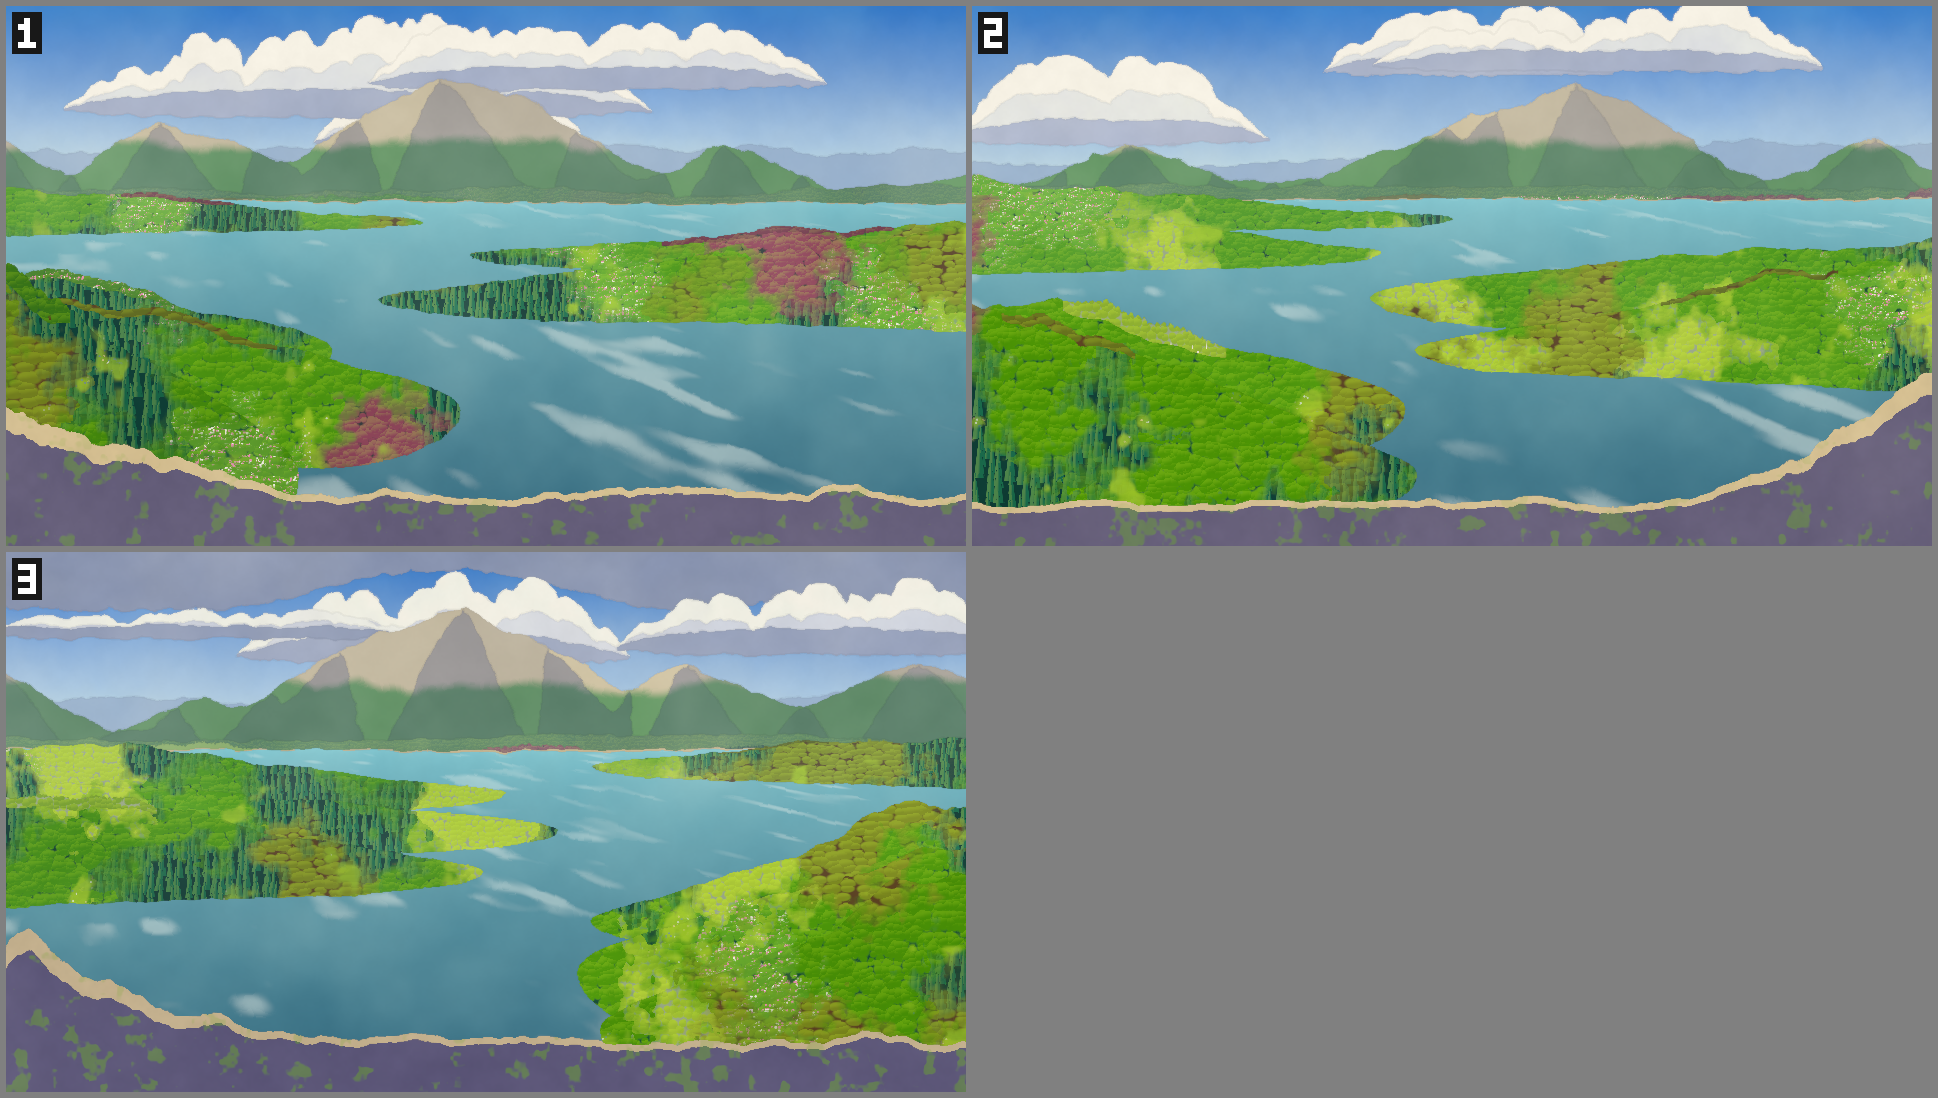
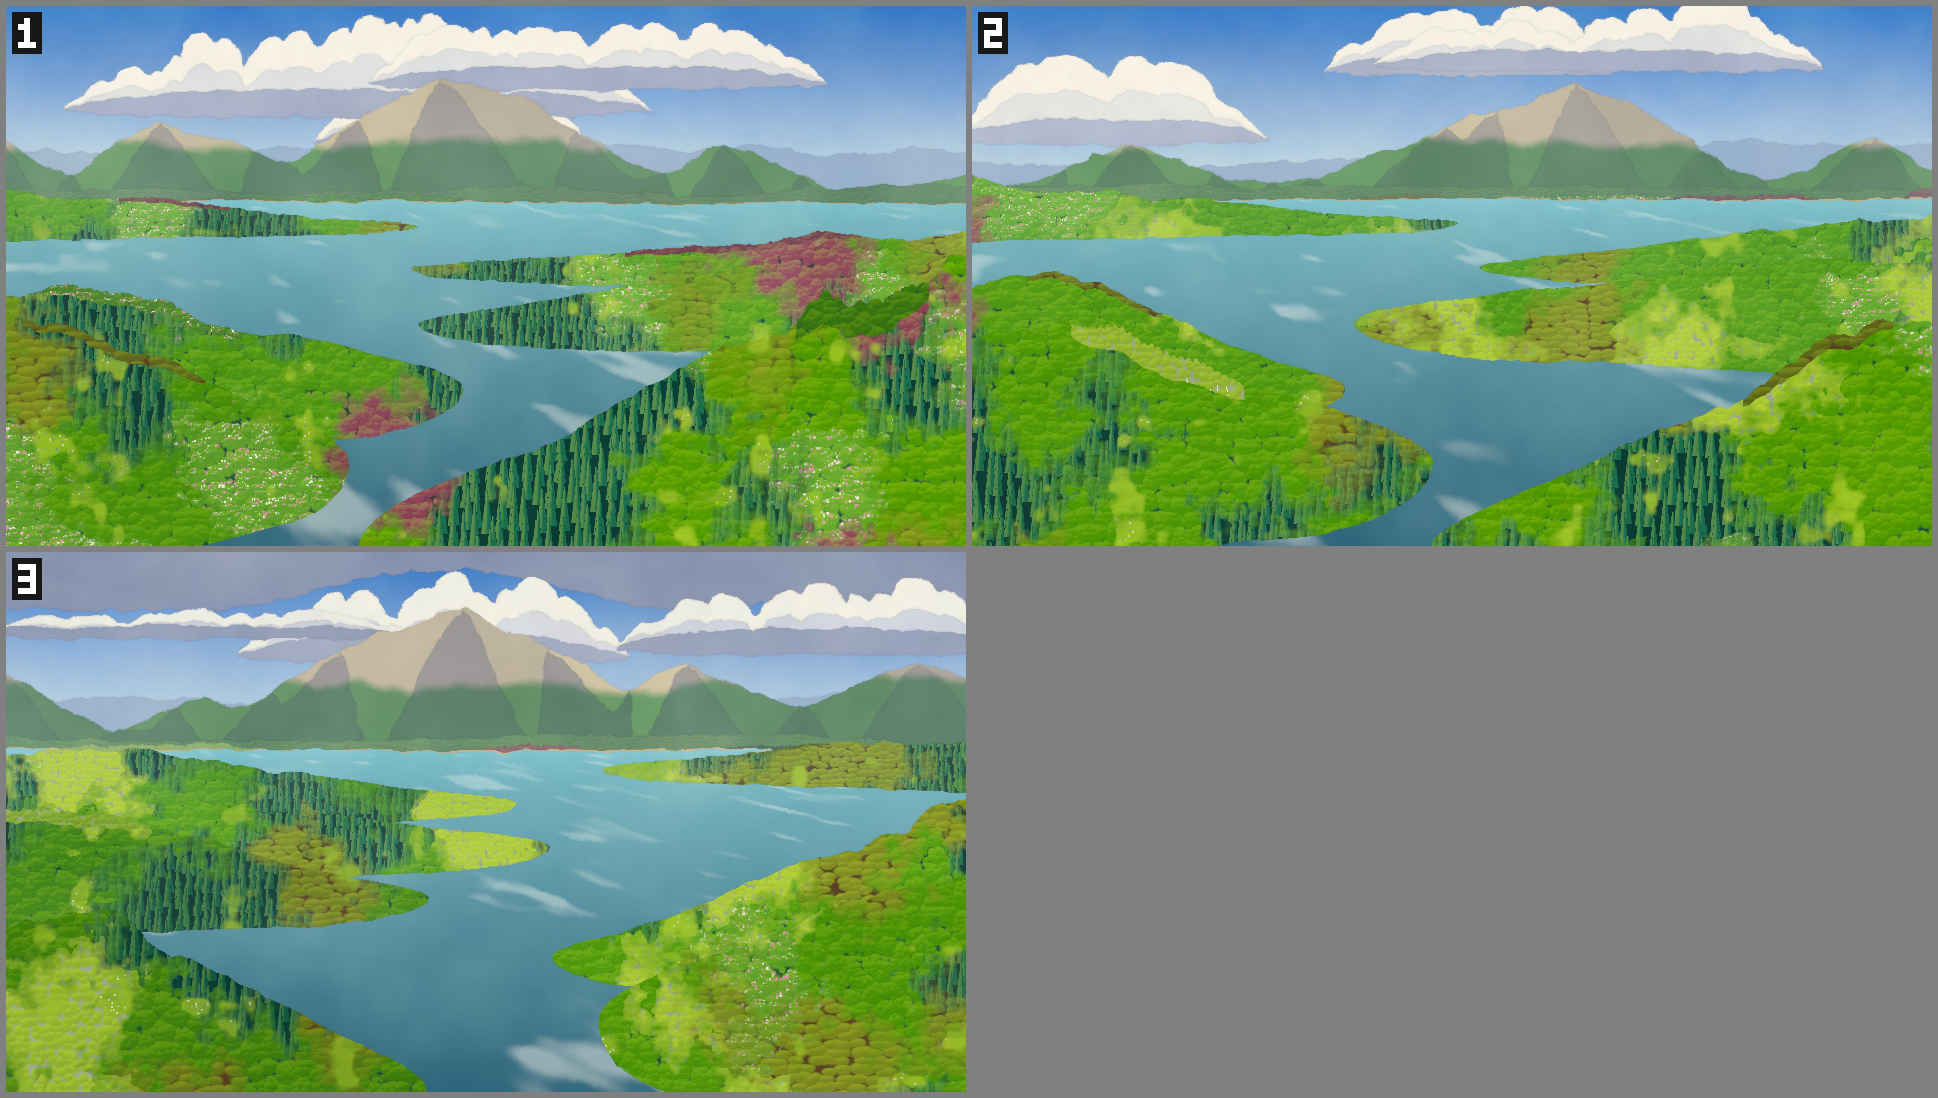
Remove the high-vantage cliff edge; end the view on the nearest spur
At the user's request (the violet ledge with moss and a beige rim read
as flat cut-outs, not a cliff). High-vantage views now end on the
valley's nearest forested spur, which sits on the frame's bottom edge
(nearness k/n instead of k/(n+1)), with the river running out of frame.
ShoreKind::Ledge becomes ShoreKind::Valley; the ledge builder, depth and
composition fields are gone. The former ledge seed is still drawn from
the terrain stream so later rock draws, and every other template, are
unchanged (checked: only high-vantage checksums differ from round 3).
Round 4 sheets regenerated before rating, with a note in its README.

Changed region(s): [[0.0, 0.1548, 1.0, 0.4954], [0.0, 0.6503, 0.4954, 1.0], [0.031, 0.1548, 0.2167, 0.2168]]

diff --git a/crates/pigment-core/src/scene/lakeshore.rs b/crates/pigment-core/src/scene/lakeshore.rs
@@ -65,8 +65,6 @@ pub mod depth {
     /// Valley spurs (`HighVantage`) run from this toward [`SPUR_NEAREST`].
     pub const SPUR_FARTHEST: f32 = 0.44;
     pub const SPUR_NEAREST: f32 = 0.14;
-    /// The cliff edge the viewer stands on (`HighVantage`).
-    pub const LEDGE: f32 = 0.08;
 }
 
 #[derive(Debug, Clone, Copy, PartialEq, Eq, Hash)]
@@ -83,8 +81,8 @@ pub enum Template {
     /// over a tiny forested shore, so the trees measure the mountain.
     TowerPeak,
     /// "Level distance" from above: a high horizon, ridge spurs stepping
-    /// down from both sides with the lake winding between them, seen from
-    /// a cliff edge in the foreground.
+    /// down from both sides with the lake winding between them, ending on
+    /// the valley's nearest spur.
     HighVantage,
 }
 
@@ -114,9 +112,9 @@ pub enum ShoreKind {
     Corner { right: bool },
     /// The shoreline crosses the whole width with a central bay.
     Bay,
-    /// No near shore: the viewer stands on a cliff edge (`HighVantage`),
-    /// higher on the right or the left.
-    Ledge { high_right: bool },
+    /// No near shore (`HighVantage`): the valley runs to the frame's edge,
+    /// ending on its nearest spur.
+    Valley,
 }
 
 #[derive(Debug, Clone, Copy, PartialEq)]
@@ -221,9 +219,6 @@ pub struct Composition {
     pub river: [f64; 4],
     /// `HighVantage` only (empty otherwise).
     pub spurs: Vec<Spur>,
-    /// `HighVantage` cliff edge: base height, rise at the high side, and
-    /// how far the high side reaches (fraction of the width).
-    pub ledge: [f64; 3],
 }
 
 impl Composition {
@@ -328,9 +323,7 @@ impl Composition {
             Template::PeakOverWater | Template::TowerPeak => ShoreKind::Corner {
                 right: corner_right,
             },
-            Template::HighVantage => ShoreKind::Ledge {
-                high_right: !corner_right,
-            },
+            Template::HighVantage => ShoreKind::Valley,
             Template::FramingRidges => ShoreKind::Bay,
             Template::TwinSummits if shore_roll < 0.6 => ShoreKind::Corner {
                 right: corner_right,
@@ -357,7 +350,7 @@ impl Composition {
                 r.range_f64(0.35, 0.6),
                 r.range_f64(0.08, 0.25),
             ],
-            ShoreKind::Ledge { .. } => [0.0; 4],
+            ShoreKind::Valley => [0.0; 4],
         };
         let framing = [
             r.range_f64(0.35, 0.6),
@@ -409,7 +402,6 @@ impl Composition {
         };
 
         let mut spurs = Vec::new();
-        let mut ledge = [0.0; 3];
         let mut river = [0.0; 4];
         if template == Template::HighVantage {
             // A meandering channel: smooth bends of even wavelength that
@@ -424,7 +416,9 @@ impl Composition {
             ];
             let n = 4 + r.below((MAX_SPURS - 3) as u64) as usize;
             for k in 0..n {
-                let t = (k + 1) as f64 / (n + 1) as f64;
+                // The nearest spur sits on the frame's bottom edge, so the
+                // view ends on the valley's nearest ridge.
+                let t = (k + 1) as f64 / n as f64;
                 let jitter = r.range_f64(-0.03, 0.03);
                 let height = r.range_f64(0.6, 1.4);
                 let thickness = r.range_f64(0.5, 1.2);
@@ -439,11 +433,6 @@ impl Composition {
                     thickness,
                 });
             }
-            ledge = [
-                r.range_f64(0.05, 0.1),
-                r.range_f64(0.12, 0.3),
-                r.range_f64(0.25, 0.5),
-            ];
         }
         Composition {
             river,
@@ -463,7 +452,6 @@ impl Composition {
             deck,
             light,
             spurs,
-            ledge,
         }
     }
 }
@@ -601,7 +589,6 @@ struct TerrainSeeds {
     rocks: u64,
     clouds: u64,
     spurs: u64,
-    ledge: u64,
 }
 
 impl<'a> Builder<'a> {
@@ -671,8 +658,10 @@ impl<'a> Builder<'a> {
             rocks: t.next_u64(),
             clouds: t.next_u64(),
             spurs: t.next_u64(),
-            ledge: t.next_u64(),
         };
+        // Reserved: formerly the cliff-edge seed. Still drawn so the rock
+        // draws that follow, and so every other template, stay unchanged.
+        let _reserved = t.next_u64();
         let (w, bottom) = (self.w, self.h + MARGIN);
         let sky = [
             CanvasPoint {
@@ -737,9 +726,8 @@ impl<'a> Builder<'a> {
         let outline = band(&self.xs, &waterline, Bottom::Flat(bottom));
         self.push(LayerRole::Water, depth::WATER, 0.5, outline);
 
-        if let ShoreKind::Ledge { high_right } = self.comp.shore {
+        if self.comp.shore == ShoreKind::Valley {
             self.spurs(&ts);
-            self.ledge(&ts, high_right);
         } else {
             let run = self.near_shore(&ts);
             self.near_woods(&ts, run);
@@ -965,85 +953,6 @@ impl<'a> Builder<'a> {
             let wbot: Vec<f64> = sel.iter().map(|&i| top[i] + 0.8 * tree + 0.001).collect();
             self.push_woods(plant, d, band(&wxs, &wtop, Bottom::Open(&wbot)));
         }
-    }
-
-    /// `HighVantage`: the cliff edge the viewer stands on, higher at one
-    /// side (a dark frame), with a lit rim and a stand of trees on the
-    /// high side.
-    fn ledge(&mut self, ts: &TerrainSeeds, high_right: bool) {
-        let f = *self.form;
-        let [base, rise, reach] = self.comp.ledge;
-        let bottom = self.h + MARGIN;
-        let v = &mut self.vegetation;
-        let (wood_roll, wood_len, wood_tall, wood_wl, wood_seed) = (
-            v.next_f64(),
-            v.range_f64(0.3, 0.8),
-            v.next_f64(),
-            v.range_f64(0.02, 0.035),
-            v.next_u64(),
-        );
-        let reach_x = reach * self.w;
-        let sw = self.w;
-        let from_high = move |x: f64| if high_right { sw - x } else { x };
-        let detail = self.fbm(ts.ledge, 0.12, MIN_WAVELENGTH, 0.55, f.faceting);
-        let lift = |x: f64| {
-            let r = (1.0 - from_high(x) / reach_x).max(0.0);
-            base + rise * lerp(r * r * (3.0 - 2.0 * r), r, f.faceting)
-        };
-        let top: Vec<f64> = self
-            .xs
-            .iter()
-            .map(|&x| {
-                let l = lift(x);
-                (self.h - l * (1.0 + 0.25 * detail.eval(x))).min(bottom - 0.01)
-            })
-            .collect();
-        self.push(
-            LayerRole::ForegroundRock,
-            depth::LEDGE,
-            0.35,
-            band(&self.xs, &top, Bottom::Flat(bottom)),
-        );
-        let rim: Vec<f64> = self
-            .xs
-            .iter()
-            .zip(&top)
-            .map(|(&x, &y)| (y + 0.012 + 0.03 * (lift(x) - base) / rise).min(bottom - 0.005))
-            .collect();
-        self.push(
-            LayerRole::ForegroundRock,
-            depth::LEDGE,
-            0.8,
-            band(&self.xs, &top, Bottom::Open(&rim)),
-        );
-        if wood_roll >= 0.2 + 0.8 * f.woodland_density {
-            return;
-        }
-        let len = wood_len * reach_x;
-        let sel: Vec<usize> = (0..self.xs.len())
-            .filter(|&i| from_high(self.xs[i]) <= len)
-            .collect();
-        if sel.len() < 4 {
-            return;
-        }
-        let plant = Plant::pick(unit(wood_seed, 0));
-        let (tall_mul, wl_mul) = plant_shape(plant);
-        let tall = (0.12 + 0.2 * wood_tall) * (0.6 + 0.6 * f.woodland_density) * tall_mul;
-        let wood_wl = wood_wl * wl_mul;
-        let (a, b) = (self.xs[sel[0]], self.xs[sel[sel.len() - 1]]);
-        let wxs: Vec<f64> = sel.iter().map(|&i| self.xs[i]).collect();
-        let wtop: Vec<f64> = sel
-            .iter()
-            .map(|&i| {
-                let x = self.xs[i];
-                // Full height toward the frame edge, thinning inward.
-                let s = (x - a) / (b - a);
-                let s = if high_right { s } else { 1.0 - s };
-                top[i] - tall * (0.25 + 0.75 * s) * canopy(plant, wood_seed, x, wood_wl)
-            })
-            .collect();
-        let wbot: Vec<f64> = sel.iter().map(|&i| top[i] + 0.02).collect();
-        self.push_woods(plant, depth::LEDGE, band(&wxs, &wtop, Bottom::Open(&wbot)));
     }
 
     /// Structural light: layers inside the light pool are lifted, the rest
@@ -1470,7 +1379,7 @@ impl<'a> Builder<'a> {
                 let headland = edge(x) * edge(x) + edge(self.w - x) * edge(self.w - x);
                 self.sky + fg * (mid + depth * q * q - 0.2 * headland)
             }
-            ShoreKind::Ledge { .. } => self.h + MARGIN,
+            ShoreKind::Valley => self.h + MARGIN,
         };
         base + 0.012 * detail.eval(x)
     }
@@ -1507,7 +1416,7 @@ impl<'a> Builder<'a> {
                 self.xs.clone(),
                 ys.iter().map(|y| y.min(bottom - 0.01)).collect(),
             ),
-            ShoreKind::Ledge { .. } => return None,
+            ShoreKind::Valley => return None,
         };
         if xs.len() >= 3 {
             let outline = match self.comp.shore {
@@ -1524,7 +1433,7 @@ impl<'a> Builder<'a> {
                     }
                     o
                 }
-                ShoreKind::Bay | ShoreKind::Ledge { .. } => band(&xs, &top, Bottom::Flat(bottom)),
+                ShoreKind::Bay | ShoreKind::Valley => band(&xs, &top, Bottom::Flat(bottom)),
             };
             self.push(LayerRole::Shore, depth::NEAR_SHORE, 0.5, outline);
         }
@@ -1561,7 +1470,7 @@ impl<'a> Builder<'a> {
     fn edge_side_is_left(&self, run: (f64, f64)) -> bool {
         match self.comp.shore {
             ShoreKind::Corner { right } => !right,
-            ShoreKind::Bay | ShoreKind::Ledge { .. } => run.0 < self.w - run.1,
+            ShoreKind::Bay | ShoreKind::Valley => run.0 < self.w - run.1,
         }
     }
 
@@ -2015,8 +1924,19 @@ mod tests {
             (&[LayerRole::Sky, LayerRole::Cloud][..], 0.10),
             (&[LayerRole::Mountain][..], 0.015),
             (&[LayerRole::Water][..], 0.05),
-            (&[LayerRole::Shore, LayerRole::ForegroundRock][..], 0.01),
-            (&[LayerRole::ForegroundRock][..], 0.0005),
+            // Foreground: a near shore with rocks, or the valley's spurs.
+            (
+                &[
+                    LayerRole::Shore,
+                    LayerRole::ForegroundRock,
+                    LayerRole::NearRidge,
+                ][..],
+                0.01,
+            ),
+            (
+                &[LayerRole::ForegroundRock, LayerRole::NearRidge][..],
+                0.0005,
+            ),
         ];
         for (roles, at_least) in min {
             let c: f64 = roles.iter().map(|r| coverage(s, *r)).sum();
@@ -2165,7 +2085,7 @@ mod tests {
     const FROZEN: [u64; 3] = [
         0x91a2_336a_07d0_1989,
         0x9143_581e_72ed_10df,
-        0x8d72_6063_3f95_e0c3,
+        0xba92_4177_4bd8_86d9,
     ];
 
     #[test]

diff --git a/docs/scene-generation.md b/docs/scene-generation.md
@@ -33,7 +33,7 @@ Layers produced, back to front:
 | Near woods | `Woodland` | 0.20 | up to 5 stands along the near shore, each one plant (see [painting.md](painting.md#plants)) |
 | Rocks | `ForegroundRock` | 0.15 → 0.03 | 3–6 boulders, each a body plus three planes (two flanks and a top cap), sorted far to near |
 | Valley spurs (05b, `high-vantage`) | `NearRidge` | 0.44 → 0.14 | 4–7 ridges from alternating sides, far to near, each with a band of trees sized for its distance; the lake winds between them |
-| Cliff edge (05b, `high-vantage`) | `ForegroundRock` | 0.08 | the ledge the viewer stands on, high at one side, with a lit rim and a stand of trees there (replaces the near shore, near woods and rocks) |
+| (removed) cliff edge | — | — | `high-vantage` once framed the view with a ledge the viewer stood on. Removed at the user's request (2026-09-27): the view now ends on the valley's nearest spur, which sits on the frame's bottom edge (nearness 1). There is no near shore, near woods or rocks in this template. |
 
 The two `Woodland` kinds are **placement regions** for task 07's trees. The debug views show them as flat masses, and their scalloped outlines are only a rough canopy envelope. The water's top edge (far shoreline), the near shore's top edge (near shoreline) and the rock bases give task 07 the reflection line and the shore contact.
 
@@ -66,7 +66,7 @@ The draw order is fixed, and **the number of values drawn never depends on form 
 | `framing-ridges` | ridges descend to the lake from both sides (35–60 % of the sky space high, feet at 22–36 % of the width from each edge), framing a summit at 40–60 %; the lake's edge bends forward under the ridges | a bay across the whole width |
 | `twin-summits` | two summits at 22–36 % and 62–78 %, the second 80–97 % as high | a corner (60 %) or a bay (40 %) |
 | `tower-peak` (05b) | "high distance": a low horizon (66–74 % of the frame height in portrait and square frames, up to 70–78 % at 2:1 and wider), one steep summit at 35–62 % with two shoulders at 50–82 % of its height, 1.4× detail. The summit reaches 0.56–0.9 of the sky space (up to `MAX_TOWER` = 1.3), with half-width (1.25 − 0.5 × relief) × height | a small corner. Far trees are 0.35× normal size (0.5× under `high-vantage`), near woods stay at the frame edge, rocks are 0.6× |
-| `high-vantage` (05b) | "level distance" from above: a high horizon (28–40 %) with a distant massif at 0.45–0.85 of the small sky space | a cliff edge; valley spurs descend from the horizon (spacing ∝ t^1.5, size (0.05 + 0.32 t²) × (0.6 + 0.8 × relief)) |
+| `high-vantage` (05b) | "level distance" from above: a high horizon (28–40 %) with a distant massif at 0.45–0.85 of the small sky space | none. Valley spurs descend from the horizon to the frame's bottom edge (nearness k/n, spacing ∝ t^1.5, size (0.05 + 0.32 t²) × (0.6 + 0.8 × relief)) along a meander |
 
 Template weights (05b): `tower-peak` 25 %, `high-vantage` 25 %, `peak-over-water` 17 %, `twin-summits` 17 %, `framing-ridges` 16 %. Mirroring flips every horizontal placement. The light comes from the upper left or the upper right. Secondary summits continue outward from the focal ones every 0.3–0.6 canvas units until past the frame, so a wide frame shows more of the range instead of stretched summits.
 

diff --git a/docs/visual-review/round-04/README.md b/docs/visual-review/round-04/README.md
@@ -10,12 +10,14 @@ This round responds to the round 3 criticism: "the extreme zig zag of the river 
 
 ## What changed
 
+- **Update (2026-09-27, before rating):** you asked what the purple sections with green and a beige border were in round 3 image 19. They were the cliff edge the viewer stood on, and at your request **it is removed**. High-vantage views now end on the valley's nearest forested spur, which sits on the frame's bottom edge, with the river running out of the frame. The sheets here were regenerated with that change.
+
 - **A meandering channel:** the water follows a smooth, sine-like centreline with evenly spaced bends. The bends swing wider toward the viewer and the channel widens gradually, as with perspective and a river downstream.
 - **Spurs from the inside of each bend:** each spur grows from the bank the channel swings away from, where land builds up, and ends at the channel's edge, so the tips line up along continuous banks.
 - **Eroded, blunt tips:** spur ends close on a rounded cap instead of a point, and the water line curves gently.
 - **Tests:** the channel's wave is continuous in value and slope (no kinks), and every spur keeps at least 30 % of its mid thickness at 85 % of the way to its tip (a wedge would be nearly closed).
 
-Only high-vantage scenes changed (the other templates' geometry checksums are identical to round 3).
+Only high-vantage scenes changed (the other templates' geometry checksums are identical to round 3; checked against the notes).
 
 ## What I'd like to know
 

diff --git a/docs/painting.md b/docs/painting.md
@@ -23,7 +23,7 @@ Each palette has a light and a shadow color per material (cloud, far range, rock
 | Spurs and framing ridges | forest with soft meadow clearings |
 | Water | sky-lit toward the far shore, deep near the viewer; horizontal ripples with sheen |
 | Shore | sand for the far beach; meadow with sand patches for the near shore |
-| Rocks and cliff edge | rock with steeper plane contrast; moss in the shadowed parts |
+| Rocks | rock with steeper plane contrast; moss in the shadowed parts |
 
 - **Forest:** a cellular field of rounded crowns at two scales. Crowns are lit on top (warm) and dark in the gaps (cool). Crowns shrink with distance (0.003 + 0.03 × nearness² canvas units, × mark scale) and fade to their mean color below a few pixels. Stands vary between dark conifer and bright deciduous, but only nearby, so distant slopes read by their planes. Near forest is deeper in value.
 - **Meadow:** horizontal grass strokes. Near meadows get sparse wildflowers (gold, white, violet), only where they are big enough to read.
